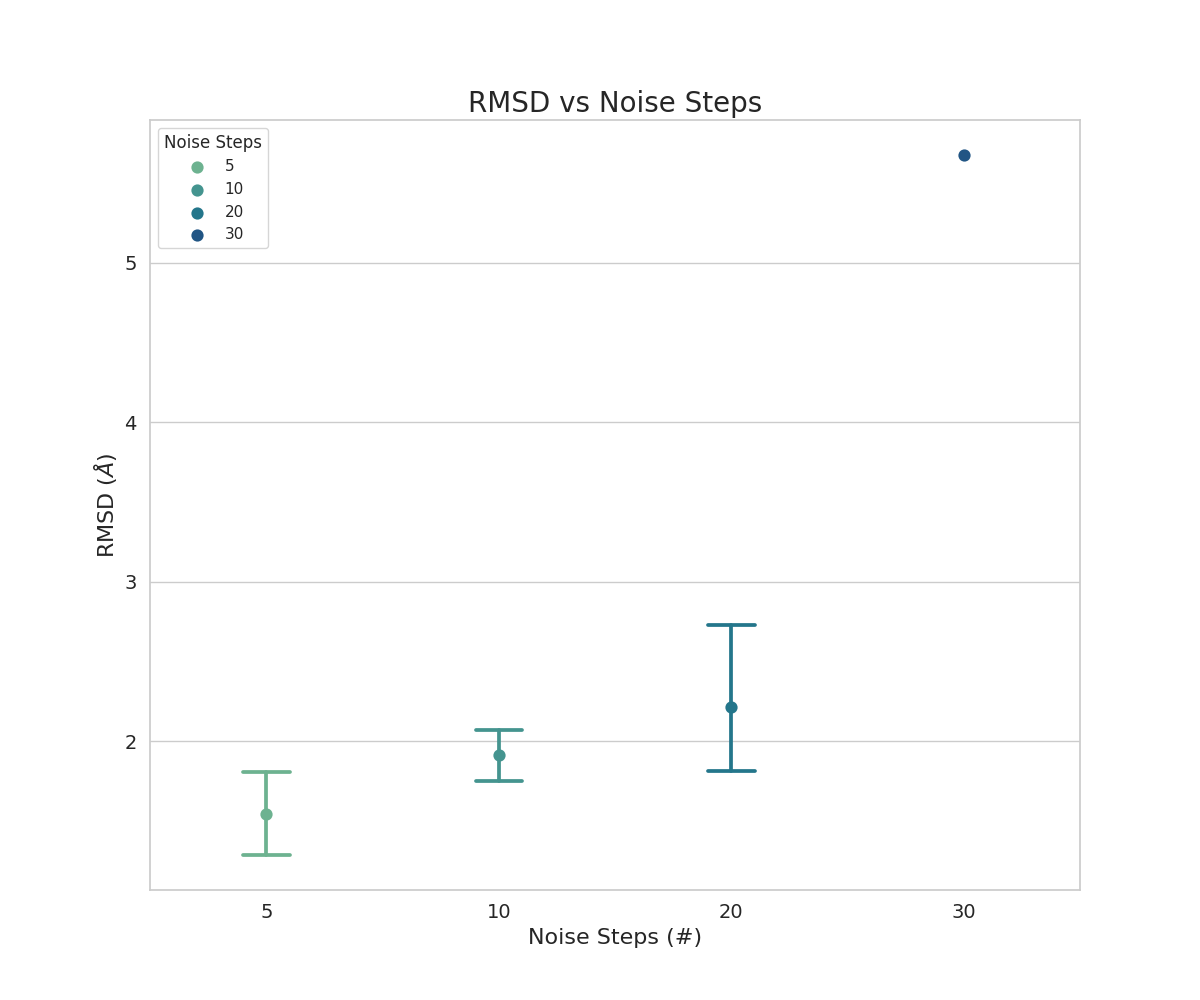
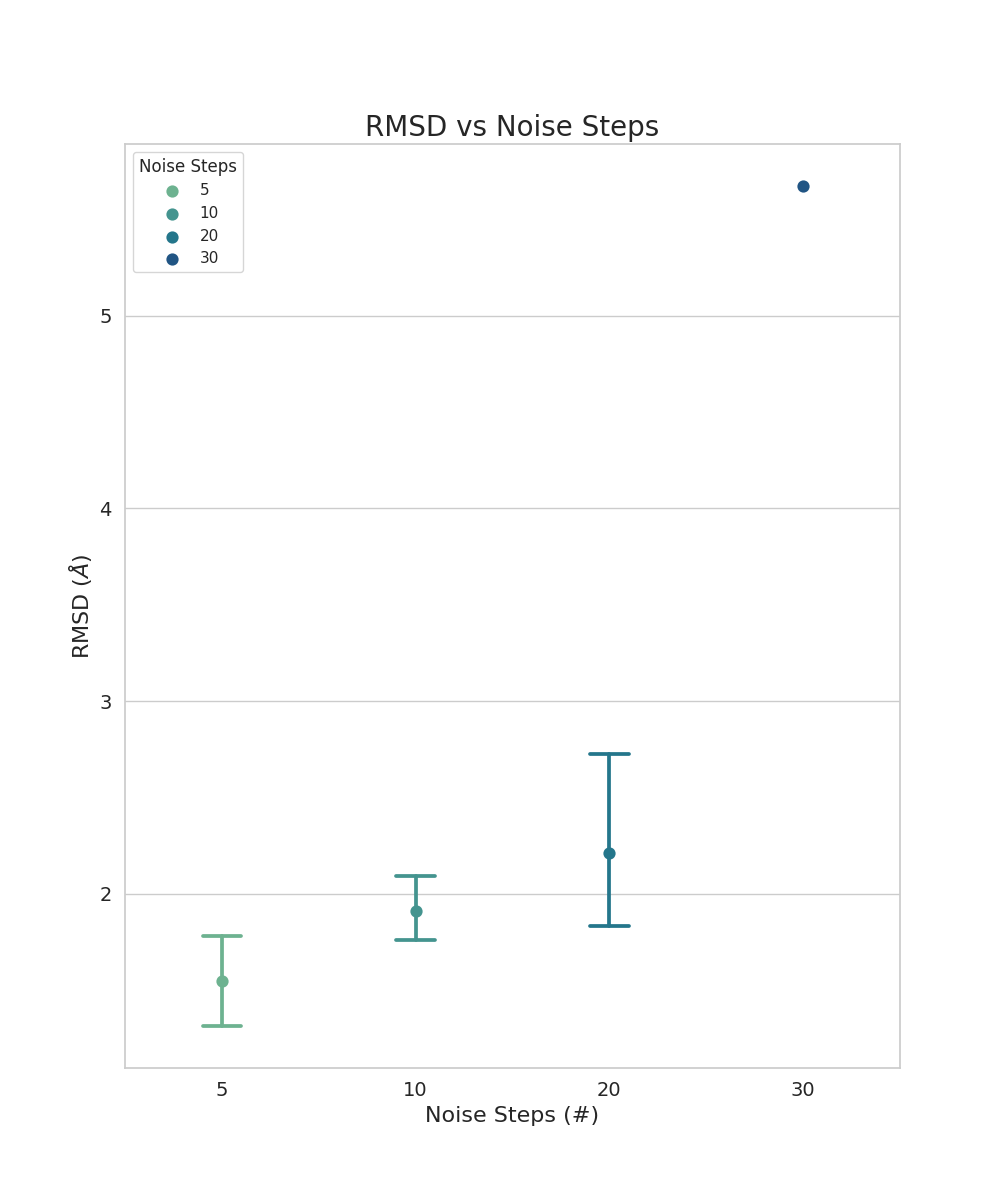
figures

diff --git a/FIGURES/Figure_noise_steps.py b/FIGURES/Figure_noise_steps.py
@@ -33,7 +33,7 @@ for noise in df_whole['Noise_Steps'].unique():
 print(percentage)
 df_barplot['Percentage']=percentage
 #Barplot success rate
-plt.figure(figsize=(10, 8))
+plt.figure(figsize=(10, 12))
 barplot = sns.barplot(x='Noise', y='Percentage', data=df_barplot, palette='crest')
 
 # Add titles and labels
@@ -67,7 +67,7 @@ y_pred = [intercept + slope * value for value in X]
 
 # Initialize the plot
 
-plt.figure(figsize=(12,10))
+plt.figure(figsize=(10,12))
 sns.set_theme(style='whitegrid')
 sns.pointplot(data=df_filtered, x='Noise', y='RMSD', hue= 'Noise', palette='crest', s=100,capsize=0.2, ci=95)
 
@@ -84,7 +84,7 @@ plt.savefig('/home/cchacon/Carlos_scripts/FIGURES/NoiseStepsRMSD.png')
 
 
 df_filtered=df_filtered[df_filtered['Noise']!=30]
-plt.figure(figsize=(8,10))
+plt.figure(figsize=(10,12))
 violinplot=sns.violinplot(data=df_filtered, x='Noise', y='RMSD', palette='crest')
 annotator=Annotator(
     violinplot,

diff --git a/FIGURES/Noise_Scale_figures.py b/FIGURES/Noise_Scale_figures.py
@@ -33,7 +33,7 @@ for noise in df_filtered_112['Noise'].unique():
     percentage.append(percent)
 df_barplot['Percentage']=percentage
 #Barplot success rate
-plt.figure(figsize=(10, 8))
+plt.figure(figsize=(12, 10))
 
 barplot = sns.barplot(x='Noise', y='Percentage', data=df_barplot, palette='crest')
 
